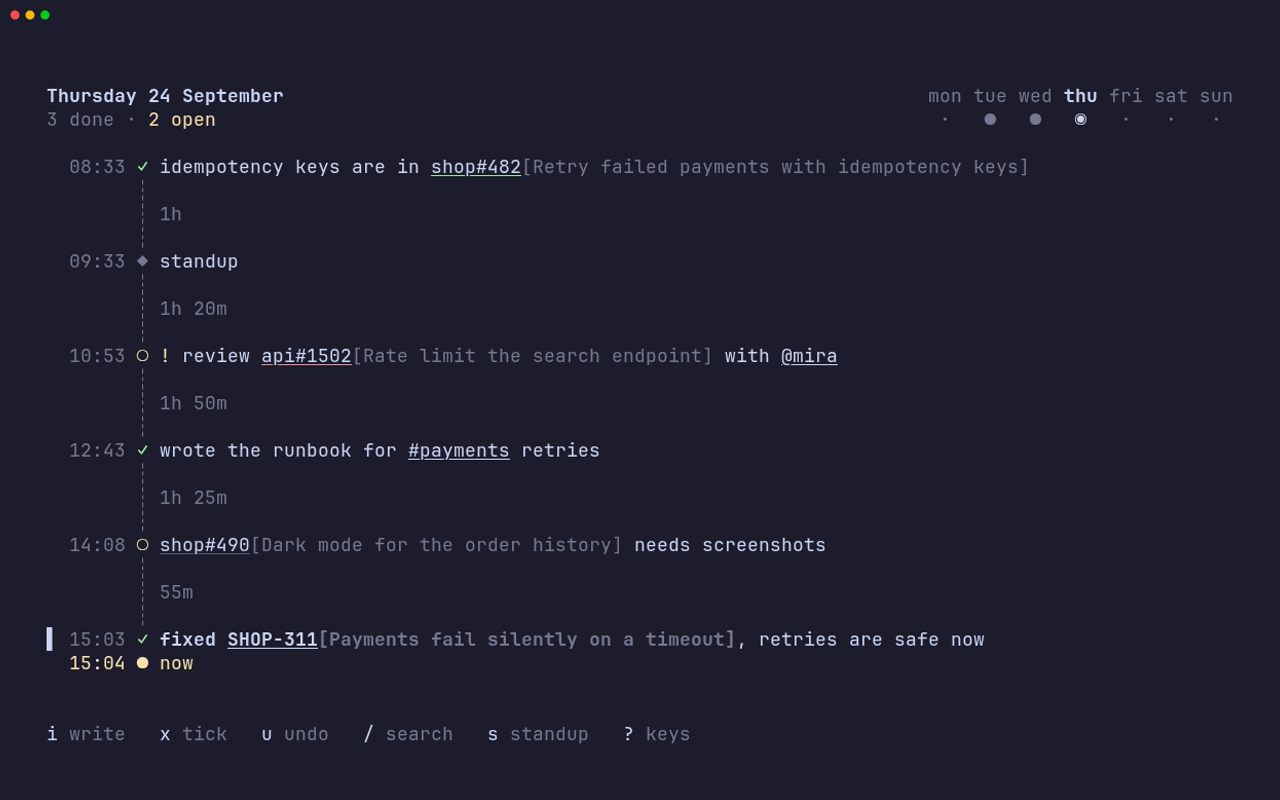
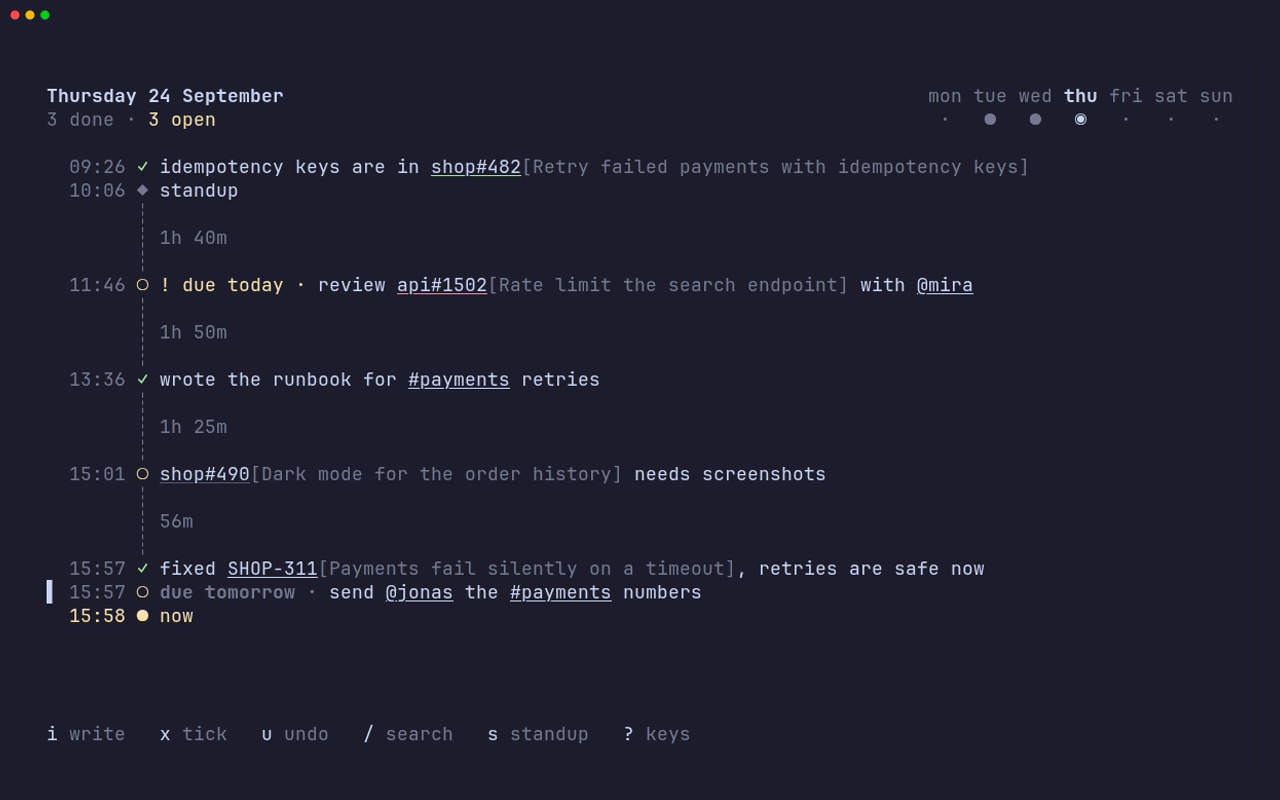
docs: record the demo again, a todo due today and one typed for friday

diff --git a/demo/seed.ts b/demo/seed.ts
@@ -1,7 +1,7 @@
 /**
  * Fills a journal with a few believable days of work, for recording the demo.
  * Dated from today back, whenever it runs, and written the way codi add
- * writes: /tags, !priorities and all. Jira and GitHub are set up against the
+ * writes: /tags, !priorities, >due dates and all. Jira and GitHub are set up against the
  * stand-ins in mock.mjs.
  */
 import {prepare} from '#/services/journal';
@@ -56,8 +56,10 @@ write(yesterday, '16:20', '/note SHOP-305 was SHOP-298 all along');
 write(yesterday, '17:05', '/todo !l tidy the #payments dashboards');
 
 write(toKey(), ago(390), '/done idempotency keys are in shop#482');
-write(toKey(), ago(330), '/meet standup');
-write(toKey(), ago(250), '/todo !h review api#1502 with @mira');
+// close enough to the first entry to leave out the break, making room for
+// the todo the demo writes
+write(toKey(), ago(350), '/meet standup');
+write(toKey(), ago(250), '/todo !h >tod review api#1502 with @mira');
 write(toKey(), ago(140), '/done wrote the runbook for #payments retries');
 write(toKey(), ago(55), '/todo shop#490 needs screenshots');
 
